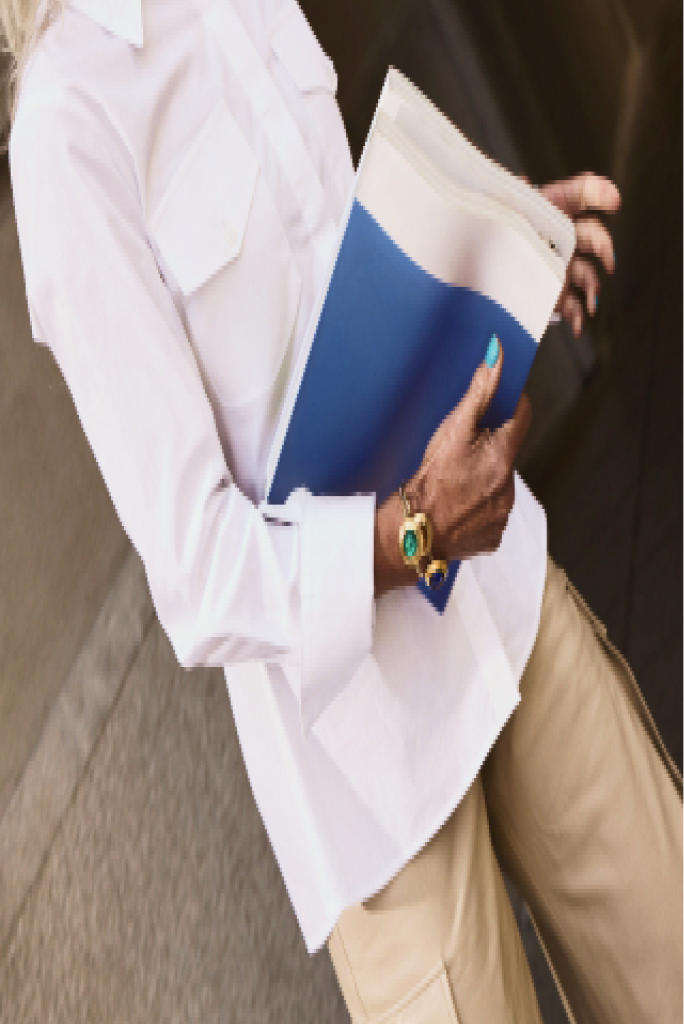
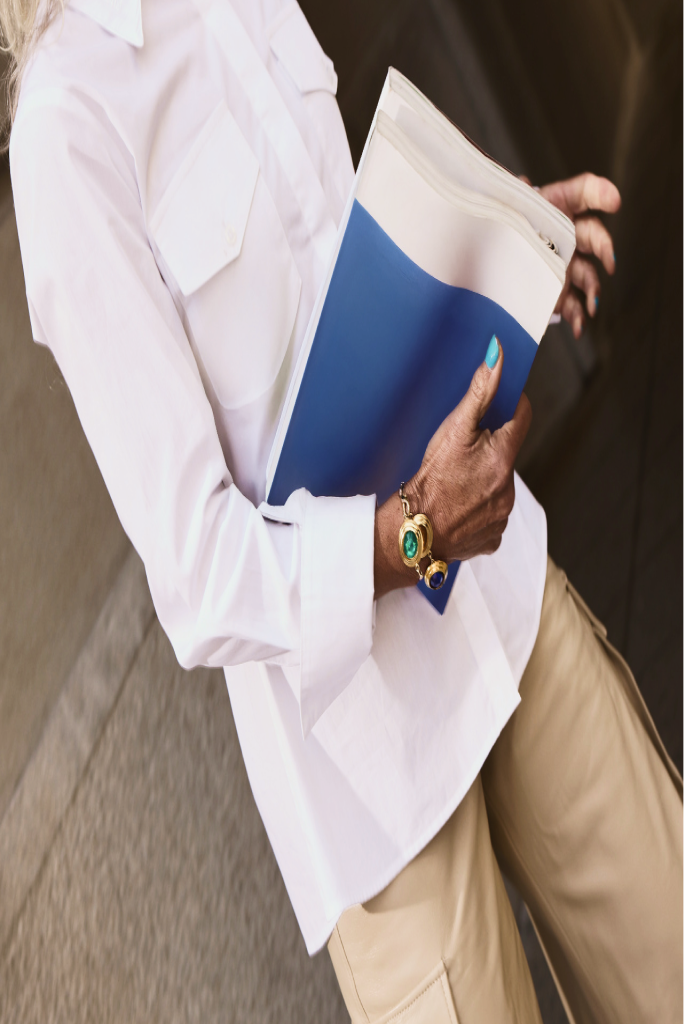
QA round 1 (homepage, desktop): dead links, tab transition, images
- /signup, /intro-call, /reviews now render a branded Placeholder page
  (shared component) instead of 404ing — every hero/nav/pricing/testimonial
  CTA that points at the future app, booking, or reviews profile lands
  somewhere real, and each route becomes a one-line redirect when the
  client's actual URLs exist.
- "Compare plans" footnote pointed at /pricing (no such page); CA pricing
  data now links /pricing/ca.
- "Why women choose Blair": switching tabs re-mounts the panel with a
  500ms fade-up ease (new fade-in-up keyframe) instead of an instant cut.
- "Care that comes to you": left image replaced with the updated export
  from the frame (the right image and Sarah's portrait file are unchanged
  in Figma).
- Dr. Sarah Peltz card: the design fills her card with the full photo,
  bottom-anchored (node 3235:16601) — the uniform 112% top-anchored crop
  was cutting her portrait wrong. Image treatment is now per-specialist.

diff --git a/components/sections/Specialists.tsx b/components/sections/Specialists.tsx
@@ -25,6 +25,9 @@ const SPECIALISTS = [
     name: "Dr. Sarah Peltz",
     credentials: "MD, FRCSC",
     image: "/images/specialists/sarah.png",
+    // Design fill (node 3235:16601): full photo, bottom-anchored — the
+    // default 112% top crop cut her portrait wrong.
+    imgClass: "inset-0 h-full w-full object-cover object-bottom",
     bio: "Urology and pelvic health lead. Royal College certified urologist practising at Mackenzie Health and Cortellucci Vaughan Hospital, focused on making pelvic and bladder care easier to talk about and easier to get.",
   },
   {
@@ -55,7 +58,7 @@ export function Specialists() {
         </div>
 
         <div className="flex w-full flex-col items-stretch gap-6 xl:flex-row xl:items-start">
-          {SPECIALISTS.map(({ name, credentials, image, bio }, i) => {
+          {SPECIALISTS.map(({ name, credentials, image, imgClass, bio }, i) => {
             const isOpen = open === i;
             return (
               <article
@@ -70,9 +73,9 @@ export function Specialists() {
                   src={image}
                   alt={isOpen ? "" : name}
                   aria-hidden={isOpen}
-                  className={`absolute top-0 left-1/2 h-[112%] w-auto max-w-none -translate-x-1/2 transition-[filter,scale] duration-[600ms] ease-out will-change-[filter,scale] motion-reduce:transition-none ${
-                    isOpen ? "scale-110 blur-[12px]" : "scale-100 blur-0"
-                  }`}
+                  className={`absolute transition-[filter,scale] duration-[600ms] ease-out will-change-[filter,scale] motion-reduce:transition-none ${
+                    imgClass ?? "top-0 left-1/2 h-[112%] w-auto max-w-none -translate-x-1/2"
+                  } ${isOpen ? "scale-110 blur-[12px]" : "scale-100 blur-0"}`}
                 />
                 <div
                   aria-hidden

diff --git a/components/sections/WhyBlair.tsx b/components/sections/WhyBlair.tsx
@@ -92,16 +92,23 @@ export function WhyBlair() {
             role="tabpanel"
             className="relative flex w-full flex-1 flex-col items-center gap-8 px-0 xl:flex-row xl:justify-between xl:px-50"
           >
-            <div className="flex w-full flex-col gap-6 text-white xl:max-w-[370px]">
-              <h3 className="type-h3 w-full">{tab.heading}</h3>
-              <p className="type-body w-full">{tab.body}</p>
-            </div>
-            <div className="w-[191px] shrink-0 xl:w-auto">
-              <PhoneMockup
-                screen={tab.screen}
-                alt={`${tab.heading} app screen`}
-                fit={"fit" in tab ? tab.fit : "cover"}
-              />
+            {/* Keyed by tab so a switch re-mounts and eases in — the swap
+                read as an abrupt cut without it. */}
+            <div
+              key={active}
+              className="flex w-full flex-col items-center gap-8 animate-[fade-in-up_500ms_cubic-bezier(0.22,1,0.36,1)] xl:flex-row xl:justify-between"
+            >
+              <div className="flex w-full flex-col gap-6 text-white xl:max-w-[370px]">
+                <h3 className="type-h3 w-full">{tab.heading}</h3>
+                <p className="type-body w-full">{tab.body}</p>
+              </div>
+              <div className="w-[191px] shrink-0 xl:w-auto">
+                <PhoneMockup
+                  screen={tab.screen}
+                  alt={`${tab.heading} app screen`}
+                  fit={"fit" in tab ? tab.fit : "cover"}
+                />
+              </div>
             </div>
           </div>
         </div>

diff --git a/components/Placeholder.tsx b/components/Placeholder.tsx
@@ -1,0 +1,43 @@
+import { Footer } from "./Footer";
+import { Nav } from "./Nav";
+import { Button } from "./ui/Button";
+import { Container } from "./ui/Container";
+
+/**
+ * Branded stand-in for destinations that live outside this site (the app's
+ * signup flow, the booking system, the Google reviews profile). Each route
+ * renders this until the real URL exists — then the route becomes a redirect
+ * or the links get repointed at handoff.
+ */
+export function Placeholder({
+  title,
+  body,
+}: {
+  title: string;
+  body: string;
+}) {
+  return (
+    <>
+      <Nav dark />
+      <main className="flex flex-col">
+        <section className="flex min-h-screen w-full flex-col justify-center">
+          <Container className="flex flex-col items-center gap-8 px-6 py-40 text-center xl:px-18">
+            <div className="flex w-full flex-col items-center gap-4 text-espresso">
+              <h1 className="type-h1 w-full xl:w-[860px]">{title}</h1>
+              <p className="type-body-lg w-full text-secondary xl:w-[620px]">{body}</p>
+            </div>
+            <div className="flex items-center gap-2">
+              <Button href="/" variant="espresso">
+                Back to home
+              </Button>
+              <Button href="/#faq" variant="primrose">
+                Read the FAQ
+              </Button>
+            </div>
+          </Container>
+        </section>
+      </main>
+      <Footer />
+    </>
+  );
+}

diff --git a/app/intro-call/page.tsx b/app/intro-call/page.tsx
@@ -1,0 +1,16 @@
+import type { Metadata } from "next";
+import { Placeholder } from "@/components/Placeholder";
+
+export const metadata: Metadata = {
+  title: "Book a free intro call | Blair Health",
+};
+
+/** Stand-in for the booking system until its URL exists. */
+export default function IntroCallPage() {
+  return (
+    <Placeholder
+      title="Booking opens soon."
+      body="Free intro calls are being scheduled through our booking partner shortly. In the meantime, the assessment is the fastest way to get started."
+    />
+  );
+}

diff --git a/app/reviews/page.tsx b/app/reviews/page.tsx
@@ -1,0 +1,16 @@
+import type { Metadata } from "next";
+import { Placeholder } from "@/components/Placeholder";
+
+export const metadata: Metadata = {
+  title: "Reviews | Blair Health",
+};
+
+/** Stand-in until the public reviews profile URL is wired. */
+export default function ReviewsPage() {
+  return (
+    <Placeholder
+      title="Rated 5.0 by the women we care for."
+      body="Our full reviews profile is being linked here. Every quote on the site comes from a real member or pilot participant."
+    />
+  );
+}

diff --git a/app/signup/page.tsx b/app/signup/page.tsx
@@ -1,0 +1,16 @@
+import type { Metadata } from "next";
+import { Placeholder } from "@/components/Placeholder";
+
+export const metadata: Metadata = {
+  title: "Sign up | Blair Health",
+};
+
+/** Stand-in for the app's signup flow until its URL exists. */
+export default function SignupPage() {
+  return (
+    <Placeholder
+      title="Signup is almost ready."
+      body="The Blair app's signup flow is being connected. Check back shortly — or explore the areas of care while you're here."
+    />
+  );
+}

diff --git a/lib/pricing.ts b/lib/pricing.ts
@@ -126,7 +126,7 @@ export const PRICING_CA: PricingContent = {
       ],
     },
   ],
-  footnote: { lead: "Not sure yet?", link: "Compare plans", href: "/pricing" },
+  footnote: { lead: "Not sure yet?", link: "Compare plans", href: "/pricing/ca" },
 };
 
 /** US (frame 3292:28673): two plans, no Pay As You Go, and its own feature

diff --git a/app/globals.css b/app/globals.css
@@ -197,3 +197,15 @@ body {
   color: var(--color-espresso);
   font-family: var(--font-sans);
 }
+
+/* Tab-switch entrance (WhyBlair and friends). */
+@keyframes fade-in-up {
+  from {
+    opacity: 0;
+    transform: translateY(14px);
+  }
+  to {
+    opacity: 1;
+    transform: none;
+  }
+}
